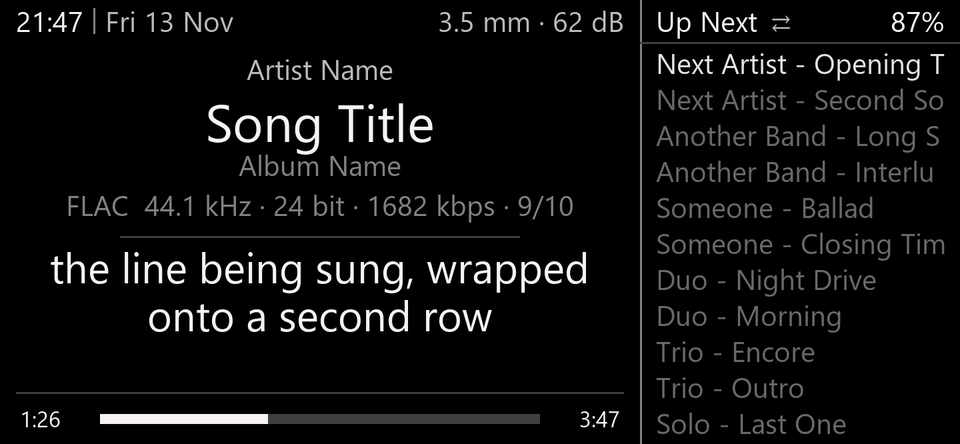
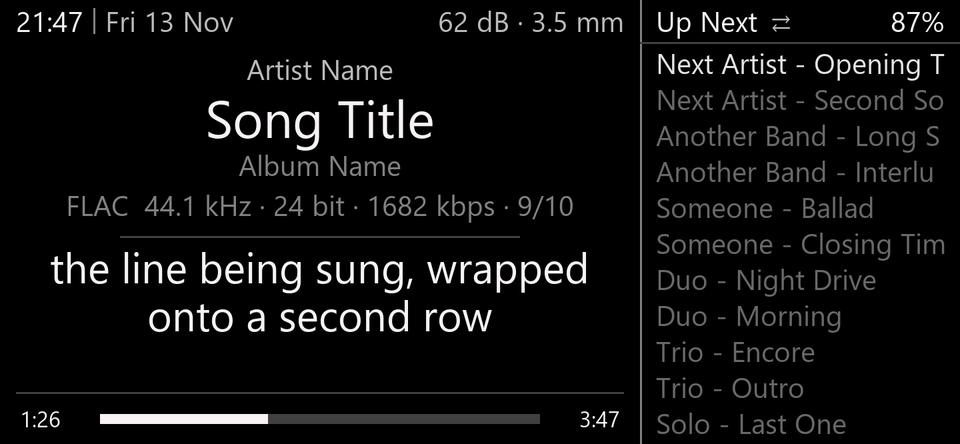
Top bars: volume before the output; Mini battery % coloured; honest RECHO attribution
- Top bars on both players read "62 dB · 3.5 mm" (volume first).
- Mini battery %: green on the cable, amber <= 35 %, red <= 15 %, as the
  Echo's Up Next header.
- Echo: the song title over the artist 2 px higher.
- README "Built on RECHO" and NOTICE: what RECHO provides, measured share of
  each image that is RECHO's (99.4 % / 99.3 %), how many RECHO routines the
  mod calls, and a correction note: commit 062c438 contained 32 glyphs of
  RECHO's font (removed in 3a7a4b6, still in the history).

Changed region(s): [[0.2188, 0.205, 0.4688, 0.3514], [0.4375, 0.0293, 0.6562, 0.0878]]

diff --git a/patches/ui_np.c b/patches/ui_np.c
@@ -110,6 +110,7 @@ static const char *output_name(void)
 
 #ifndef ECHO_PORT
 static char *put_pct(char *p, char *end);
+static u32 pct_colour(void);
 STATE char pct_buf[8] = {0};
 
 /* Mini menu bar: battery as "88%" instead of RECHO's level glyph (patched at 0x3059474) */
@@ -760,7 +761,7 @@ void np_draw(void)
         char pct[8];
         char *q = put_pct(pct, pct + 7);
         *q = 0;
-        top_bar_2(qpos, right_colour, pct, WHITE);
+        top_bar_2(qpos, right_colour, pct, pct_colour());
     }
 #endif
 
@@ -782,7 +783,7 @@ void np_draw(void)
         if (!text2x_line(W / 2, 36, artist, c_art, title, c_title)) {
             if (artist && *artist && title && *title && text_width(1, title) <= 150) {
                 text_centred(1, W / 2, 34, artist, 300, c_art);     /* artist over a 2x title */
-                text2x_line(W / 2, 44, 0, 0, title, c_title);
+                text2x_line(W / 2, 42, 0, 0, title, c_title);
             } else {
                 track_line(52, paused);
             }
@@ -948,6 +949,15 @@ static char *put_pct(char *p, char *end)
     p = put_num(p, pct, end);
     return put_str(p, "%", end);
 }
+
+/* battery % colour, as the Echo's Up Next header: green on the cable, red <= 15 %, amber <= 35 % */
+static u32 pct_colour(void)
+{
+    int pm = BATTERY[1];
+    if (BATTERY[3] != 0)
+        return GREEN;
+    return pm <= 150 ? RED : (pm <= 350 ? AMBER : WHITE);
+}
 #endif
 
 /* ---- HINTS layer -------------------------------------------------------------------- */
@@ -1011,27 +1021,30 @@ static void text2x(int x, int y_top, const char *s, u32 c)
         }
 }
 
-/* right side of the top bars: "BT <headphones>" in green, or the output in use, then the
- * volume as RECHO's dB + 90 ("3.5 mm Â· 62 dB", "muted") */
+/* right side of the top bars: the volume as RECHO's dB + 90, then the output in use
+ * ("62 dB . 3.5 mm", "muted . 4.4 mm"); "BT <headphones>" in green while Bluetooth is connected */
 static const char *output_label(char *buf, int n, u32 *colour)
 {
     char *p = buf, *e = buf + n - 1;
     *colour = SOFT;
-    if (bt_state == BT_CONNECTED && bt_conn_name[0]) {
-        p = put_str(p, "BT ", e);
-        p = put_str(p, bt_conn_name, e);
-        *colour = GREEN;
-    } else if (queue_loaded()) {
-        p = put_str(p, output_name(), e);
-    }
-    if (p != buf)
-        p = put_str(p, SEP, e);
     int db = VOLUME_DB;
     if (db <= -128) {
         p = put_str(p, "muted", e);
     } else {
         p = put_num(p, (u32)(db + 90 > 0 ? db + 90 : 0), e);
         p = put_str(p, " dB", e);
+    }
+    if (bt_state == BT_CONNECTED && bt_conn_name[0]) {
+        p = put_str(p, SEP, e);
+        p = put_str(p, "BT ", e);
+        p = put_str(p, bt_conn_name, e);
+        *colour = GREEN;
+    } else if (queue_loaded()) {
+        const char *o = output_name();
+        if (o && *o) {
+            p = put_str(p, SEP, e);
+            p = put_str(p, o, e);
+        }
     }
     *p = 0;
     return buf;
@@ -1212,7 +1225,7 @@ void menu_draw(void)
         }
         q = put_str(q, r, lead + 63);
         *q = 0;
-        top_bar_2(lead, rc, pct, WHITE);
+        top_bar_2(lead, rc, pct, pct_colour());
     }
 #endif
 

diff --git a/tools/render_docs.py b/tools/render_docs.py
@@ -89,8 +89,8 @@ QUEUE = ["Next Artist - Opening Track", "Next Artist - Second Song", "Another Ba
 
 def now_playing_mini():
     sc = Screen(320, 170)
-    top_bar(sc, 0, "3.5 mm \u00b7 62 dB", last="87%")
-    sc.text("sym", 320 - 8 - sc.width(1, "87%") - 8 - sc.width(1, "3.5 mm \u00b7 62 dB") - 6, 10, "\u21c4", SOFT, "rm")
+    top_bar(sc, 0, "62 dB \u00b7 3.5 mm", last="87%")
+    sc.text("sym", 320 - 8 - sc.width(1, "87%") - 8 - sc.width(1, "62 dB \u00b7 3.5 mm") - 6, 10, "\u21c4", SOFT, "rm")
     y = 36
     sc.text(1, 8, y, "Artist Name", SOFT)
     sc.text(1, 8, y + 20, "A Song Title That", WHITE)
@@ -107,9 +107,9 @@ def now_playing_mini():
 
 def now_playing_echo():
     sc = Screen(480, 222)
-    top_bar(sc, 0, "3.5 mm \u00b7 62 dB")
+    top_bar(sc, 0, "62 dB \u00b7 3.5 mm")
     sc.text(1, 160, 34, "Artist Name", SOFT, "mm")
-    sc.text(2, 160, 60, "Song Title", WHITE, "mm")
+    sc.text(2, 160, 58, "Song Title", WHITE, "mm")
     sc.text(1, 160, 82, "Album Name", GREY, "mm")
     sc.text(1, 160, 102, "FLAC  44.1 kHz \u00b7 24 bit \u00b7 1682 kbps \u00b7 9/10", GREY, "mm")
     sc.rect(60, 118, 259, 118, RULE)

diff --git a/README.md b/README.md
@@ -14,6 +14,28 @@ own copy of RECHO 0.10.1 and get a new image that a verifier checks byte by byte
 </tr>
 </table>
 
+## Built on RECHO
+
+This project is **RECHO with a layer of patches on top**, not a firmware of its own. Everything that
+makes the player a player is RECHO's work: audio decoding and gapless playback, the file system and
+SD card, the queue and its shuffle order, tags, settings, USB disk mode, the updater, power
+management, the display driver, the fonts and icons, and the Files, Settings and menu screens. The
+mod replaces how a few screens look, remaps some keys and adds small features, and it does that by
+calling RECHO's own routines.
+
+| | Echo Mini image | Echo image |
+|---|---:|---:|
+| bytes that differ from RECHO 0.10.1 | 28,715 of 5,242,884 (0.55 %) | 34,136 of 5,242,884 (0.65 %) |
+| of which the mod's own code (in a free area of RECHO's image) | 16,147 | 21,519 |
+| of which two RECHO modules blanked (Spectrum, Debug) | 11,516 | 11,516 |
+| RECHO routines the mod's code calls | 49 | 53 |
+
+Even the new screens are drawn with RECHO's text and rectangle routines and RECHO's fonts; the
+boot screen's 32 glyphs are copied out of RECHO's large font at build time. The full-size Echo port
+runs RECHO's unchanged player on different hardware. RECHO is the work of its author, who is not
+involved in this project and has not endorsed it. If you like what the players do, the credit
+belongs to RECHO first: get it from [its site](https://recho.atzkey.workers.dev/).
+
 > [!WARNING]
 > **Use at your own risk.** Flashing custom firmware can leave a player unable to start until it is
 > recovered over USB. Read [docs/10-install-and-recovery.md](docs/10-install-and-recovery.md) before
@@ -26,7 +48,8 @@ own copy of RECHO 0.10.1 and get a new image that a verifier checks byte by byte
 | **Now Playing** redrawn: artist, song, album, file details with queue position (`9/10`) | ✅ | ✅ |
 | Up Next list in play order (shuffle included) | ✅ right half | ✅ side column |
 | Song title doubled when it fits, live lyrics from `.lrc` files | | ✅ |
-| Volume in the top bar next to the output (`3.5 mm · 62 dB`), shown from 0 dB | ✅ | ✅ |
+| Volume in the top bar before the output (`62 dB · 3.5 mm`), shown from 0 dB | ✅ | ✅ |
+| Battery % green while charging, amber / red when low | ✅ top bar | ✅ Up Next |
 | Pixel-art main menu: Files · USB disk · Now Playing · Bluetooth · Settings | ✅ | ✅ |
 | **Hold ▶‖ on Files** in the main menu: play every song | ✅ | ✅ |
 | **↩ leaves USB disk** (the screen stays on) | ✅ | ✅ |
@@ -101,7 +124,7 @@ Details, maskrom recovery and the exact commands: [docs/10-install-and-recovery.
 | 🛟 | [10 Install and recovery](docs/10-install-and-recovery.md) | Flashing, maskrom, rkdeveloptool, Zadig |
 | 🧩 | [11 Tweaking guide](docs/11-tweaking.md) | How to add your own patch safely |
 | 🎧 | [12 Bluetooth](docs/12-bluetooth.md) | Bluetooth work in progress and the hardware facts |
-| 📜 | [CHANGELOG](docs/CHANGELOG.md) | Build history: Echo Mini v1–v37, Echo stages 1–40 |
+| 📜 | [CHANGELOG](docs/CHANGELOG.md) | Build history: Echo Mini v1–v38, Echo stages 1–41 |
 
 ## Repository layout
 

diff --git a/NOTICE.md b/NOTICE.md
@@ -1,16 +1,28 @@
 # Notices
 
-## Not included, not redistributed
+## RECHO: what this project is built on
 
 - **RECHO** (https://recho.atzkey.workers.dev/) is an independent custom firmware for the Echo Mini
-  (build `2d11bdcd`, v0.10.1), the work of its author. It is not a FiiO or Snowsky product.
-  This repository contains no part of it. The patcher reads your own copy and writes patch bytes
-  plus the compiled hook code from `patches/`. The boot screen's glyphs are extracted from your copy
-  at build time (`build/boot_font.h`, not committed). `docs/img/boot.png` is a picture of the
-  patched boot screen, like a screenshot.
+  (build `2d11bdcd`, v0.10.1), the work of its author. It is not a FiiO or Snowsky product, and its
+  author is not involved in this project and has not endorsed it.
+- This project patches RECHO. It needs your own copy of RECHO 0.10.1, and almost everything in a
+  patched image is RECHO's: 99.4 % of the Echo Mini image and 99.3 % of the Echo image are RECHO's
+  bytes unchanged. The mod's own code (16 KB for the Mini, 21.5 KB for the Echo) runs inside RECHO
+  and calls 49 / 53 of RECHO's routines to do its work; the routines and addresses it relies on are
+  listed in `docs/02-recho-map.md`.
+- No RECHO image, code or data is distributed here. The patcher reads your copy and writes patch
+  bytes plus the compiled hook code from `patches/`. The boot screen's 32 glyphs are extracted from
+  your copy at build time (`build/boot_font.h`, not committed).
+- **Correction:** commit `062c438` added those glyphs to the repository as `patches/boot_font.h`
+  (32 characters of RECHO's large font, about 1 KB). Commit `3a7a4b6` removed the file and moved the
+  extraction into the build; the earlier commit is still in the history.
+- `docs/img/boot.png` is a picture of the patched boot screen and shows those glyphs, like a
+  screenshot. The other pictures in `docs/img/` use a stand-in typeface.
+
+## FiiO / Snowsky
+
 - **FiiO / Snowsky** make the Echo Mini and Echo hardware and the stock firmware (Echo Mini `HIFIEC40`,
-  Echo `ECHOV190` / `ECHOV200`), © FiiO.
-  It is mentioned only as the recovery image; get it from FiiO.
+  Echo `ECHOV190` / `ECHOV200`), © FiiO. It is mentioned only as the recovery image; get it from FiiO.
 
 ## Learnt from other projects
 

diff --git a/docs/CHANGELOG.md b/docs/CHANGELOG.md
@@ -12,6 +12,7 @@ Builds are patched from RECHO 0.10.1 `2d11bdcd`. "Device" means tested on a real
 | v6 | Debug removed from menu; Settings without Show tags / On USB connect / Debug strip; cable chooser Charge only / USB disk, no DAC | device |
 | v7 | no key for 5 s on a cable → power off into the charging screen | device |
 | v8 | button remap: ↩ tap = Back, hold ≡ on Now Playing = Settings; bar labels | built, verified |
+| v38 | top bars: volume first, then the output ("62 dB · 3.5 mm"); battery % green on the cable, amber / red when low (as the Echo's Up Next) | built, verified |
 | v37 | no volume overlay on Now Playing (the top bar shows it); Now Playing and the main menu redraw when the volume changes | built, verified |
 | v36 | top bars: volume after the output ("3.5 mm · 62 dB", "BT <name> · 62 dB", "muted") | built, verified |
 | v35 | hold ▶‖ on the Files tab in the main menu plays the whole internal storage (as hold ▶‖ on "Music" in Files); Now Playing: file details right under the album in the large font, wrapped at the separator dots | built, verified |
@@ -53,6 +54,7 @@ Builds are patched from RECHO 0.10.1 `2d11bdcd`. "Device" means tested on a real
 | 5 | own Now Playing screen (red paused state, volume on change), full-width bar, two-halves cable chooser, centred charging screen, battery and mode in Up Next | built |
 | 6 | button remap | built |
 | 7 | no button bar; screen and Up Next centred vertically; RECHO's bar messages on one line | built |
+| 41 | song title over the artist 2 px higher; top-bar order as Mini v38 | built, verified |
 | 40 | volume overlay removed, redraw on volume change, as Mini v37 | built, verified |
 | 39 | 2x title 2 px higher again (it touched the album); top-bar volume as Mini v36 | built, verified |
 | 38 | Now Playing: artist over the 2x title 3 px lower, title 2 px lower, album 2 px higher; hold ▶‖ on Files as Mini v35 | built, verified |

diff --git a/docs/06-echo-ui.md b/docs/06-echo-ui.md
@@ -40,9 +40,10 @@ on RECHO's slow GPIO fallback the top bar says **Safe display: restart** in ambe
 
 ## Top bars (both players)
 
-`21:47 | Fri 13 Nov` on the left; on the right the output and the volume, `3.5 mm · 62 dB`
-(`BT <headphones> · 62 dB` in green while Bluetooth is connected, `muted` at −128). The Mini adds the
-play-mode glyph in front and the battery % in white at the far right; the Echo shows the battery in
+`21:47 | Fri 13 Nov` on the left; on the right the volume, then the output: `62 dB · 3.5 mm`
+(`62 dB · BT <headphones>` in green while Bluetooth is connected, `muted` at −128). The Mini adds the
+play-mode glyph in front and the battery % at the far right, coloured like the Echo's: green on the
+cable, red at 15 % or less, amber at 35 % or less, white otherwise. The Echo shows the battery in
 Up Next instead.
 
 | Piece | Source |
@@ -79,7 +80,7 @@ read) and cached in free RAM (`0x03044000`, 9 × 64 B). It runs only while Now P
 | Element | Rows (picture) | Source / rule |
 |---|---|---|
 | `Artist - Song` at 2x | 36..67 | the large font rendered once, then copied at 2x (fits in 150 px) |
-| or: artist over a 2x song | 34 / 44..75 | when the pair is too wide but the song alone fits |
+| or: artist over a 2x song | 34 / 42..73 | when the pair is too wide but the song alone fits |
 | or: `Artist - Song` at 1x | 52 | |
 | album | 82 | tag record `0x305A8F8`, else the folder name |
 | file details | 102 | `FLAC  44.1 kHz · 24 bit · 1682 kbps · 9/10`: format record, average bitrate from size and length, play-order position |

diff --git a/docs/controls.md b/docs/controls.md
@@ -45,8 +45,10 @@ Holding <kbd>≡</kbd> on any screen other than Now Playing goes straight to the
 | <kbd>≡</kbd> | Files | Settings |
 | <kbd>+</kbd> <kbd>−</kbd> | volume up / down | keeps changing |
 
-The volume shows in the top bar next to the output, for example `3.5 mm · 62 dB`, or
-`BT <headphones> · 62 dB` in green on Bluetooth. RECHO's quietest step reads 0 dB.
+The volume shows in the top bar before the output, for example `62 dB · 3.5 mm`, or
+`62 dB · BT <headphones>` in green on Bluetooth. RECHO's quietest step reads 0 dB. The battery %
+(Mini: top bar, Echo: Up Next) is green while the cable is in, amber at 35 % or less, red at 15 % or
+less.
 
 ## Main menu
 
